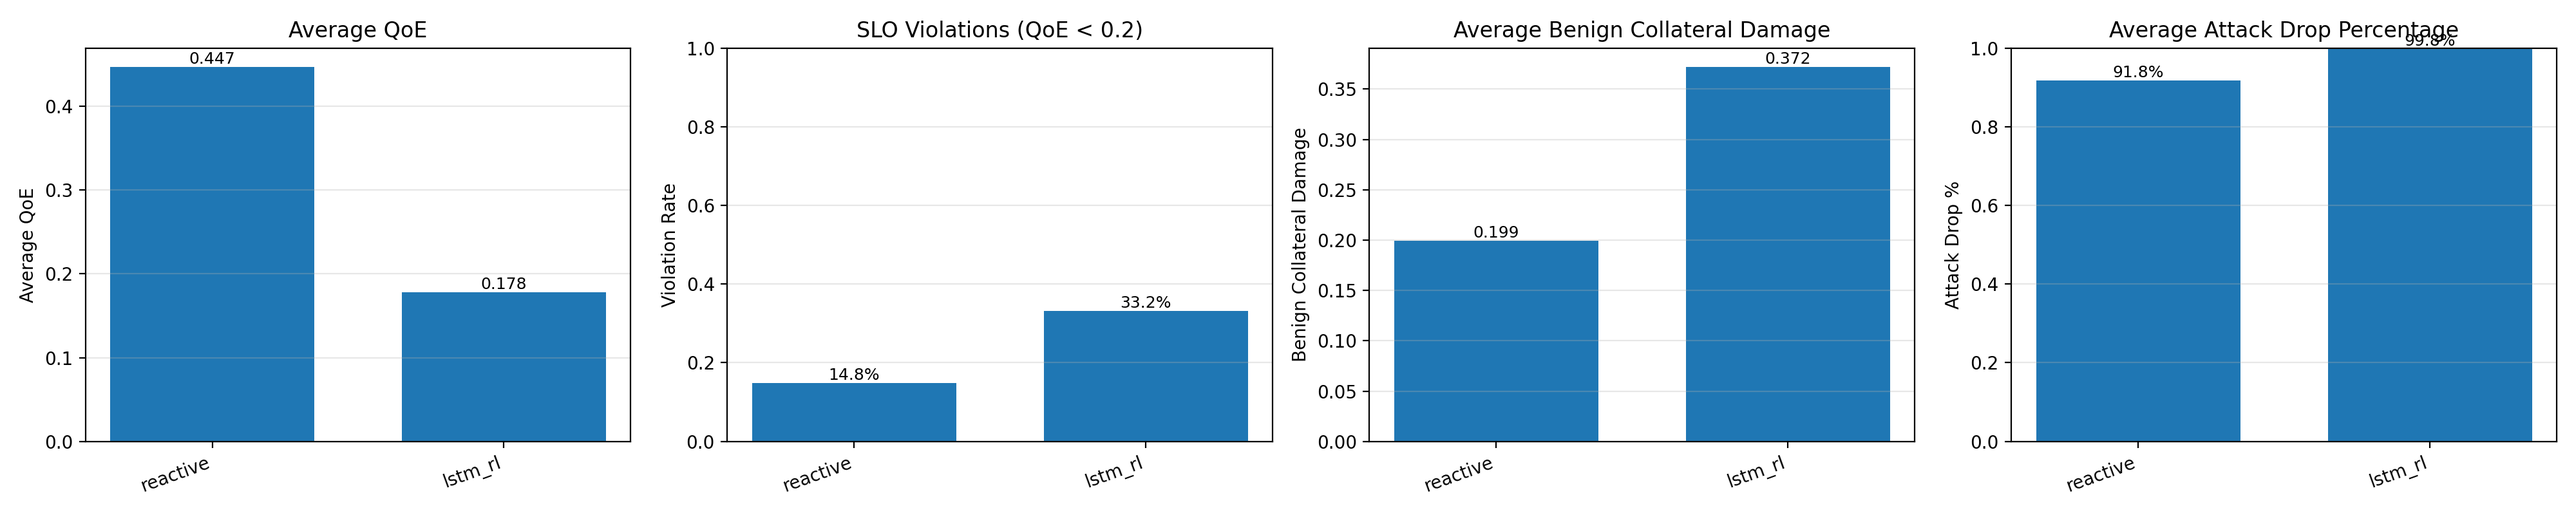
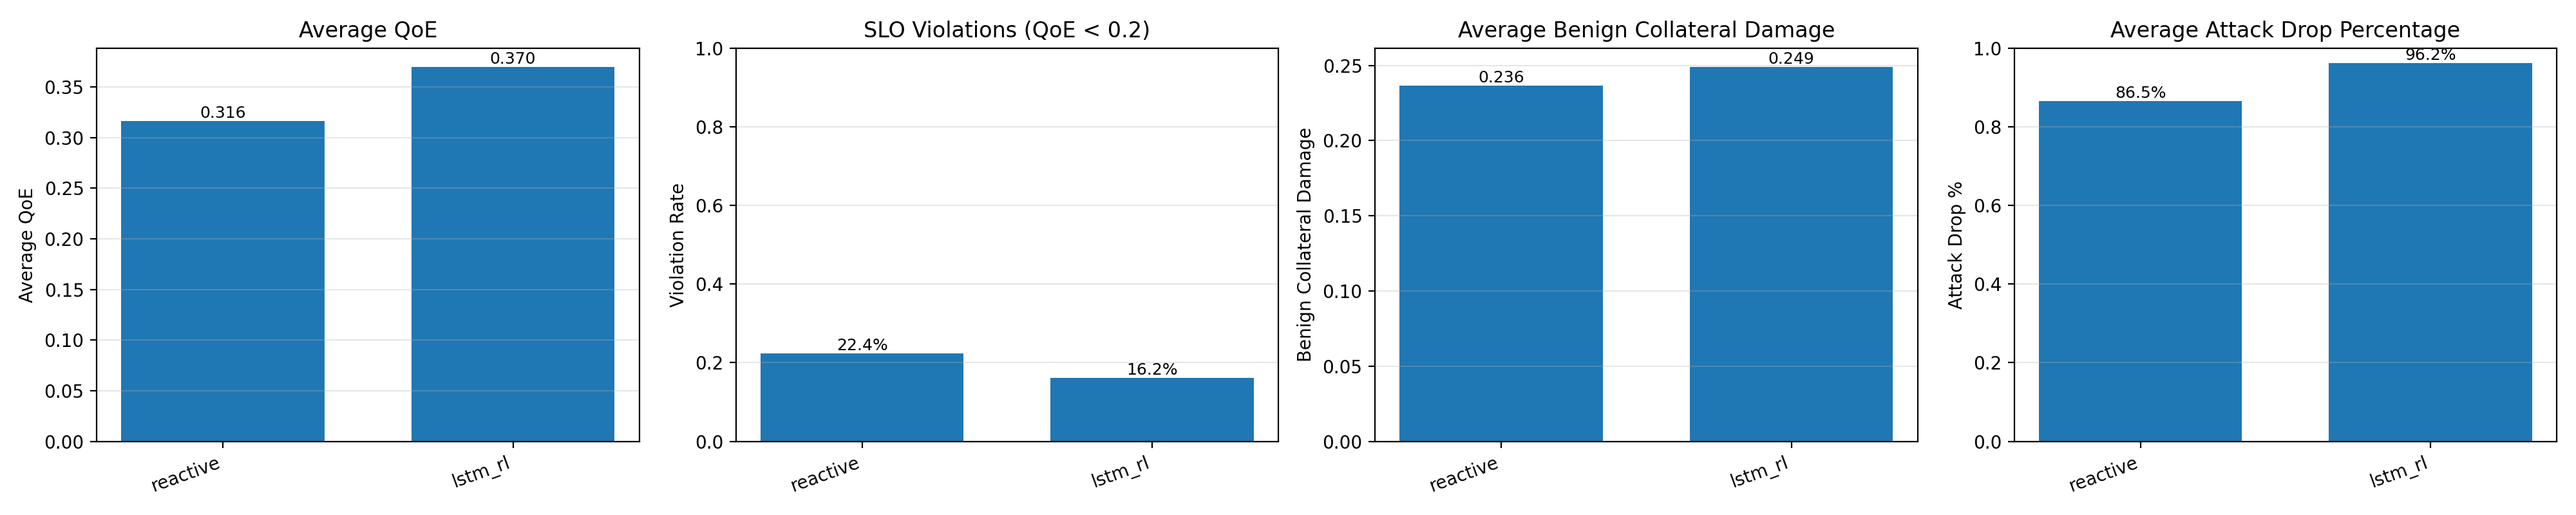
0.5 Step Limited Scaling Convergence

diff --git a/simulation/eval_baselines.py b/simulation/eval_baselines.py
@@ -26,7 +26,7 @@ from environment import build_env_base, TorchRLEnvWrapper
 from method_policy import ActContext, BaselinePolicy, make_baseline_policy
 from old_policy import plot_ts_continuous, plot_qoe_vio_bars
 
-SCALING_QUANTA = [0.5, 1.0, 1.5, 2.0]
+SCALING_QUANTA = [0.5]
 
 DEFAULT_METHODS = ["random", "constant_0.5", "constant_1.5", "tbsa", "reactive"]
 DEFAULT_METHODS = ["reactive", "lstm_rl"]
@@ -49,9 +49,10 @@ def _build_obs_flat(
     obs_keys: List[str],
     transition_ticks_norm: float,
     delta_in_flight_norm: float,
+    queue_ahead_norm: float,
 ) -> np.ndarray:
     n_edges = len(env.edge_areas)
-    obs_dim = len(obs_keys) + 2   # +2: transition_ticks_norm, delta_in_flight_norm
+    obs_dim = len(obs_keys) #+ 3   # +3: transition_ticks_norm, delta_in_flight_norm, queue_ahead_norm
     obs = np.zeros((n_edges, obs_dim), dtype=np.float32)
 
     if env.history:
@@ -75,8 +76,9 @@ def _build_obs_flat(
                 else:
                     obs[i, j] = float(np.mean(vals))
 
-    obs[:, -2] = float(np.clip(transition_ticks_norm, 0.0, 1.0))
-    obs[:, -1] = float(np.clip(delta_in_flight_norm, -1.0, 1.0))
+    # obs[:, -3] = float(np.clip(transition_ticks_norm, 0.0, 1.0))
+    # obs[:, -2] = float(np.clip(delta_in_flight_norm, -1.0, 1.0))
+    # obs[:, -1] = float(np.clip(queue_ahead_norm, -1.0, 1.0))
     return obs.reshape(-1).astype(np.float32)
 
 
@@ -166,7 +168,9 @@ def run_episode(
         ticks_norm      = float(transition_ticks_remaining) / max(max_scaling_duration, 1.0)
         delta_in_flight = float(ids_cpu_target[0]) - float(ids_cpu_settled[0])
         d_flight_norm   = float(np.clip(delta_in_flight / max(max_delta, 1e-6), -1.0, 1.0))
-        obs_flat = _build_obs_flat(env, decision_interval, obs_keys, ticks_norm, d_flight_norm)
+        queue_ahead     = float(ids_cpu[0]) - float(ids_cpu_target[0])
+        q_ahead_norm    = float(np.clip(queue_ahead / max(max_delta, 1e-6), -1.0, 1.0))
+        obs_flat = _build_obs_flat(env, decision_interval, obs_keys, ticks_norm, d_flight_norm, q_ahead_norm)
         cpu_util = _cpu_util(env, decision_interval)
 
         ctx = ActContext(
@@ -178,23 +182,25 @@ def run_episode(
             decision_interval=decision_interval,
             rng=rng,
             transition_ticks_norm=ticks_norm,
-            delta_in_flight_norm=d_flight_norm,
+            # delta_in_flight_norm=d_flight_norm,
+            # queue_ahead_norm=q_ahead_norm,
             obs_flat=obs_flat,
         )
 
         ids_cpu_abs, delta = policy.act(ctx)
 
         prev_ids_cpu = ids_cpu.copy()
+        _max_q = SCALING_QUANTA[-1]   # 2.0 — max quantum the transition system supports
         if ids_cpu_abs is not None:
             # Abs-value policies (constant, tbsa, lstm_rl) return an absolute position;
             # treat it as the new queue value directly.
             ids_cpu = np.clip(ids_cpu_abs, ids_cpu_min, ids_cpu_max).astype(np.float32)
         else:
-            # Delta policies: net delta onto current queue, not onto settled.
+            # Delta policies: net delta onto current queue, clamped to settled ± max_quantum.
             ids_cpu = np.clip(
                 ids_cpu + delta.astype(np.float32) * scale_step,
-                ids_cpu_min,
-                ids_cpu_max,
+                np.maximum(ids_cpu_min, ids_cpu_settled - _max_q),
+                np.minimum(ids_cpu_max, ids_cpu_settled + _max_q),
             ).astype(np.float32)
 
         delta_eff = float(ids_cpu[0] - prev_ids_cpu[0])
@@ -336,7 +342,7 @@ def main():
                     help="Methods to evaluate. Defaults: random constant_0.5 constant_4.0 reactive")
     ap.add_argument("--tbsa_table",        default="tbsa_table.npz",
                     help="TBSA lookup-table path (needed when 'tbsa' is in --methods)")
-    ap.add_argument("--ckpt",              default="checkpoints/tdsc_so_u_rew_32/ckpt_iter_000450.pt",
+    ap.add_argument("--ckpt",              default="checkpoints/tdsc_so_u_rew_32_d300_05/ckpt_iter_000700.pt",
     # ap.add_argument("--ckpt",              default="checkpoints/tdsc/ckpt_iter_000500.pt",
     # ap.add_argument("--ckpt",              default="checkpoints/tdsc_so_u_rew_32/ckpt_best.pt",
                     help="Checkpoint path (needed when 'lstm_rl' is in --methods)")
@@ -414,8 +420,8 @@ def main():
                 reward_beta=reward_beta,
                 reward_gamma=reward_gamma,
                 reward_q_th=reward_q_th,
-                # initial_ids_cpu=last_ids_cpu[mname],
-                initial_ids_cpu=None,
+                initial_ids_cpu=last_ids_cpu[mname],
+                # initial_ids_cpu=None,
             )
             last_ids_cpu[mname] = final_ids
             for k, v in ep_result.items():

diff --git a/simulation/environment.py b/simulation/environment.py
@@ -489,14 +489,14 @@ class TorchRLEnvWrapper(EnvBase):
         self.reward_beta  = float(_reward_cfg.get("beta_inv",  0.20))
         self.reward_gamma = float(_reward_cfg.get("gamma_inv", 0.12))
         self.reward_q_th  = float(_reward_cfg.get("q_th", 0.20))
-        self.scaling_quanta: List[float] = [0.5, 1.0, 1.5, 2.0]
+        self.scaling_quanta: List[float] = [0.5]
 
         # Method 2 serialised-scaling state
         self.ids_cpu_target: torch.Tensor      # current transition target (= settled when not transitioning)
         self.transition_ticks_remaining: int = 0   # 0 = settled
         self.transition_ticks_total:     int = 1   # avoid div-by-zero
 
-        self.obs_dim = len(self.obs_keys) + 2   # +2: ticks_remaining_norm, delta_in_flight_norm
+        self.obs_dim = len(self.obs_keys) #+ 3   # +3: ticks_remaining_norm, delta_in_flight_norm, queue_ahead_norm
         self.obs_size = self.n_edges * self.obs_dim
 
         self.action_dim = self.n_edges
@@ -691,10 +691,14 @@ class TorchRLEnvWrapper(EnvBase):
         # ids_cpu tracks the desired ("queued") target.
         # Netting queue: delta is applied on top of the current queue, not settled.
         # Commands issued during a transition accumulate; they do not reset to settled.
+        # Queue is clamped to settled ± max_quantum so the gap never exceeds the largest
+        # single scaling step the transition system supports.
+        _settled = float(self.ids_cpu_settled[0].item())
+        _max_q   = float(self.scaling_quanta[-1])   # 2.0
         self.ids_cpu[0] = torch.clamp(
             self.ids_cpu[0] + delta_cmd,
-            min=self.ids_cpu_min,
-            max=ids_cpu_max_val,
+            min=max(self.ids_cpu_min, _settled - _max_q),
+            max=min(ids_cpu_max_val,  _settled + _max_q),
         )
         delta_eff = float((self.ids_cpu[0] - prev_ids).item())
 
@@ -840,18 +844,25 @@ class TorchRLEnvWrapper(EnvBase):
                 else:
                     obs[i, j] = float(np.mean(vals))
 
-        # Feature -2: remaining transition ticks normalised by max possible duration ∈ [0, 1]
-        # Using max_duration (not T_total) gives a consistent drain rate across all transition
-        # sizes, and encodes duration in the initial value (0.55 = T=300, 1.0 = T=544).
-        max_dur = float(self.scaling_time_steps[-1])
-        obs[:, -2] = float(self.transition_ticks_remaining) / max(max_dur, 1.0)
+        # # Feature -3: remaining transition ticks normalised by max possible duration ∈ [0, 1]
+        # # Using max_duration (not T_total) gives a consistent drain rate across all transition
+        # # sizes, and encodes duration in the initial value (0.55 = T=300, 1.0 = T=544).
+        # max_dur = float(self.scaling_time_steps[-1])
+        # obs[:, -3] = float(self.transition_ticks_remaining) / max(max_dur, 1.0)
 
-        # Feature -1: delta in flight — (ids_cpu_target - ids_cpu_settled) / max_possible_delta ∈ [-1, 1]
-        # Normalise by the largest single command so the feature fills [-1, +1].
-        # max_delta = scale_step * (n_actions - 1) / 2  e.g. 0.5 * 4 = 2.0 for n_actions=9
-        max_delta = self.scale_step * (self.n_actions - 1) / 2.0
-        delta_in_flight = float(self.ids_cpu_target[0].item()) - float(self.ids_cpu_settled[0].item())
-        obs[:, -1] = float(np.clip(delta_in_flight / max(max_delta, 1e-6), -1.0, 1.0))
+        # # max_delta shared by the two delta features below
+        # max_delta = self.scale_step * (self.n_actions - 1) / 2.0
+
+        # # Feature -2: delta in flight — (ids_cpu_target - ids_cpu_settled) / max_delta ∈ [-1, 1]
+        # # Direction and magnitude of the transition currently executing.
+        # delta_in_flight = float(self.ids_cpu_target[0].item()) - float(self.ids_cpu_settled[0].item())
+        # obs[:, -2] = float(np.clip(delta_in_flight / max(max_delta, 1e-6), -1.0, 1.0))
+
+        # # Feature -1: queue ahead — (ids_cpu - ids_cpu_target) / max_delta ∈ [-1, 1]
+        # # Commands accumulated on the netting queue beyond the current in-flight transition.
+        # # Zero when settled or when no extra commands have been queued mid-transition.
+        # queue_ahead = float(self.ids_cpu[0].item()) - float(self.ids_cpu_target[0].item())
+        # obs[:, -1] = float(np.clip(queue_ahead / max(max_delta, 1e-6), -1.0, 1.0))
 
         return obs
 

diff --git a/simulation/method_policy.py b/simulation/method_policy.py
@@ -326,8 +326,8 @@ class LSTMRLPolicy(BaselinePolicy):
         with torch.no_grad():
             td = self.net(td)
 
-        self._h = td.get("recurrent_state_h")
-        self._c = td.get("recurrent_state_c")
+        self._h = td.get(("next", "recurrent_state_h"))
+        self._c = td.get(("next", "recurrent_state_c"))
 
         logits = td.get("logits").squeeze(0)
         if self.greedy:
@@ -377,6 +377,6 @@ def make_baseline_policy(
             raise ValueError("ckpt_path must be provided for 'lstm_rl' policy")
         if obs_keys is None:
             raise ValueError("obs_keys must be provided for 'lstm_rl' policy")
-        return LSTMRLPolicy(ckpt_path=ckpt_path, obs_keys=obs_keys, device=device)
+        return LSTMRLPolicy(ckpt_path=ckpt_path, obs_keys=obs_keys, device=device, greedy=False)
     else:
         raise ValueError(f"Unknown baseline policy name: {name!r}")

diff --git a/simulation/train_lstm.py b/simulation/train_lstm.py
@@ -339,7 +339,7 @@ def train(env_cfg_path="./configs/simulation_0.yaml", train_cfg_path="./configs/
         # ---- per-decision-step obs logging ----
         # Each row after reshape = one decision interval (one action taken by the agent).
         # reshape(-1, obs_dim) handles any leading batch/env dims (B=1 case: B*T == T).
-        obs_keys_full = base_env.obs_keys + ["transition_ticks_norm", "delta_in_flight_norm"]
+        obs_keys_full = base_env.obs_keys# + ["transition_ticks_norm", "delta_in_flight_norm", "queue_ahead_norm"]
         _obs_flat = batch["observation"].float().reshape(-1, base_env.obs_dim).cpu()  # [T, obs_dim]
         _T = _obs_flat.shape[0]
         for _t in range(_T):
